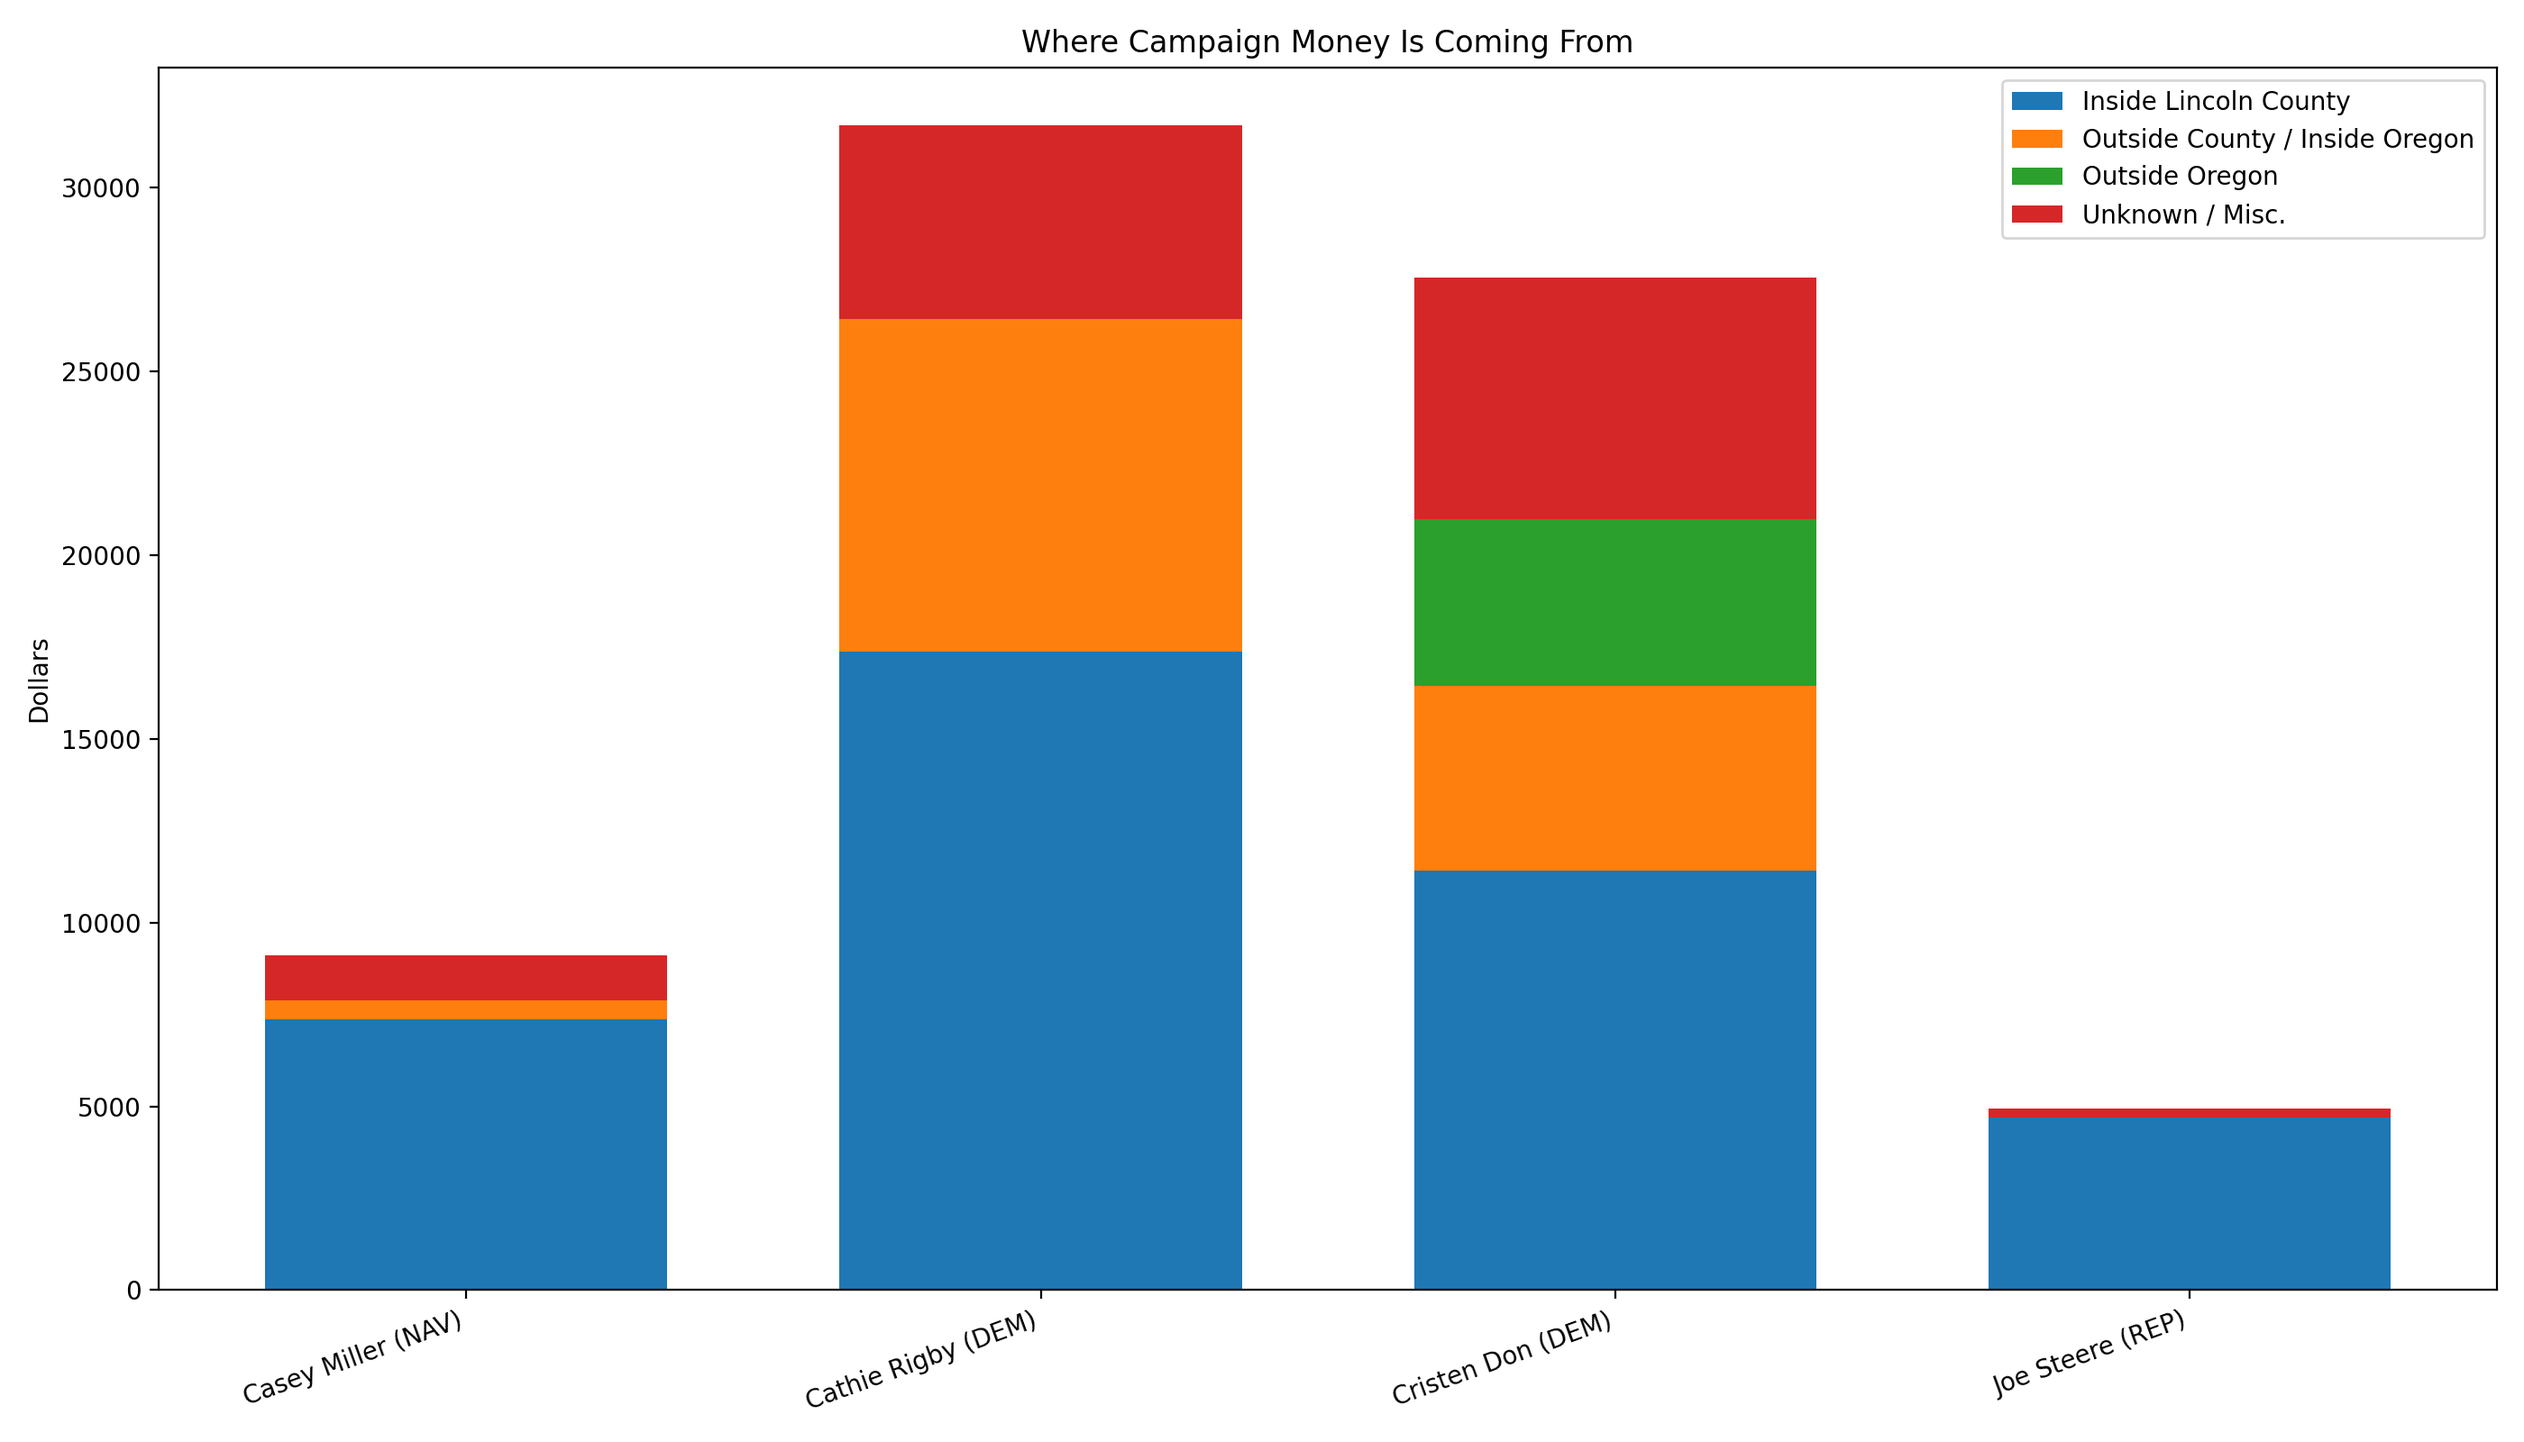
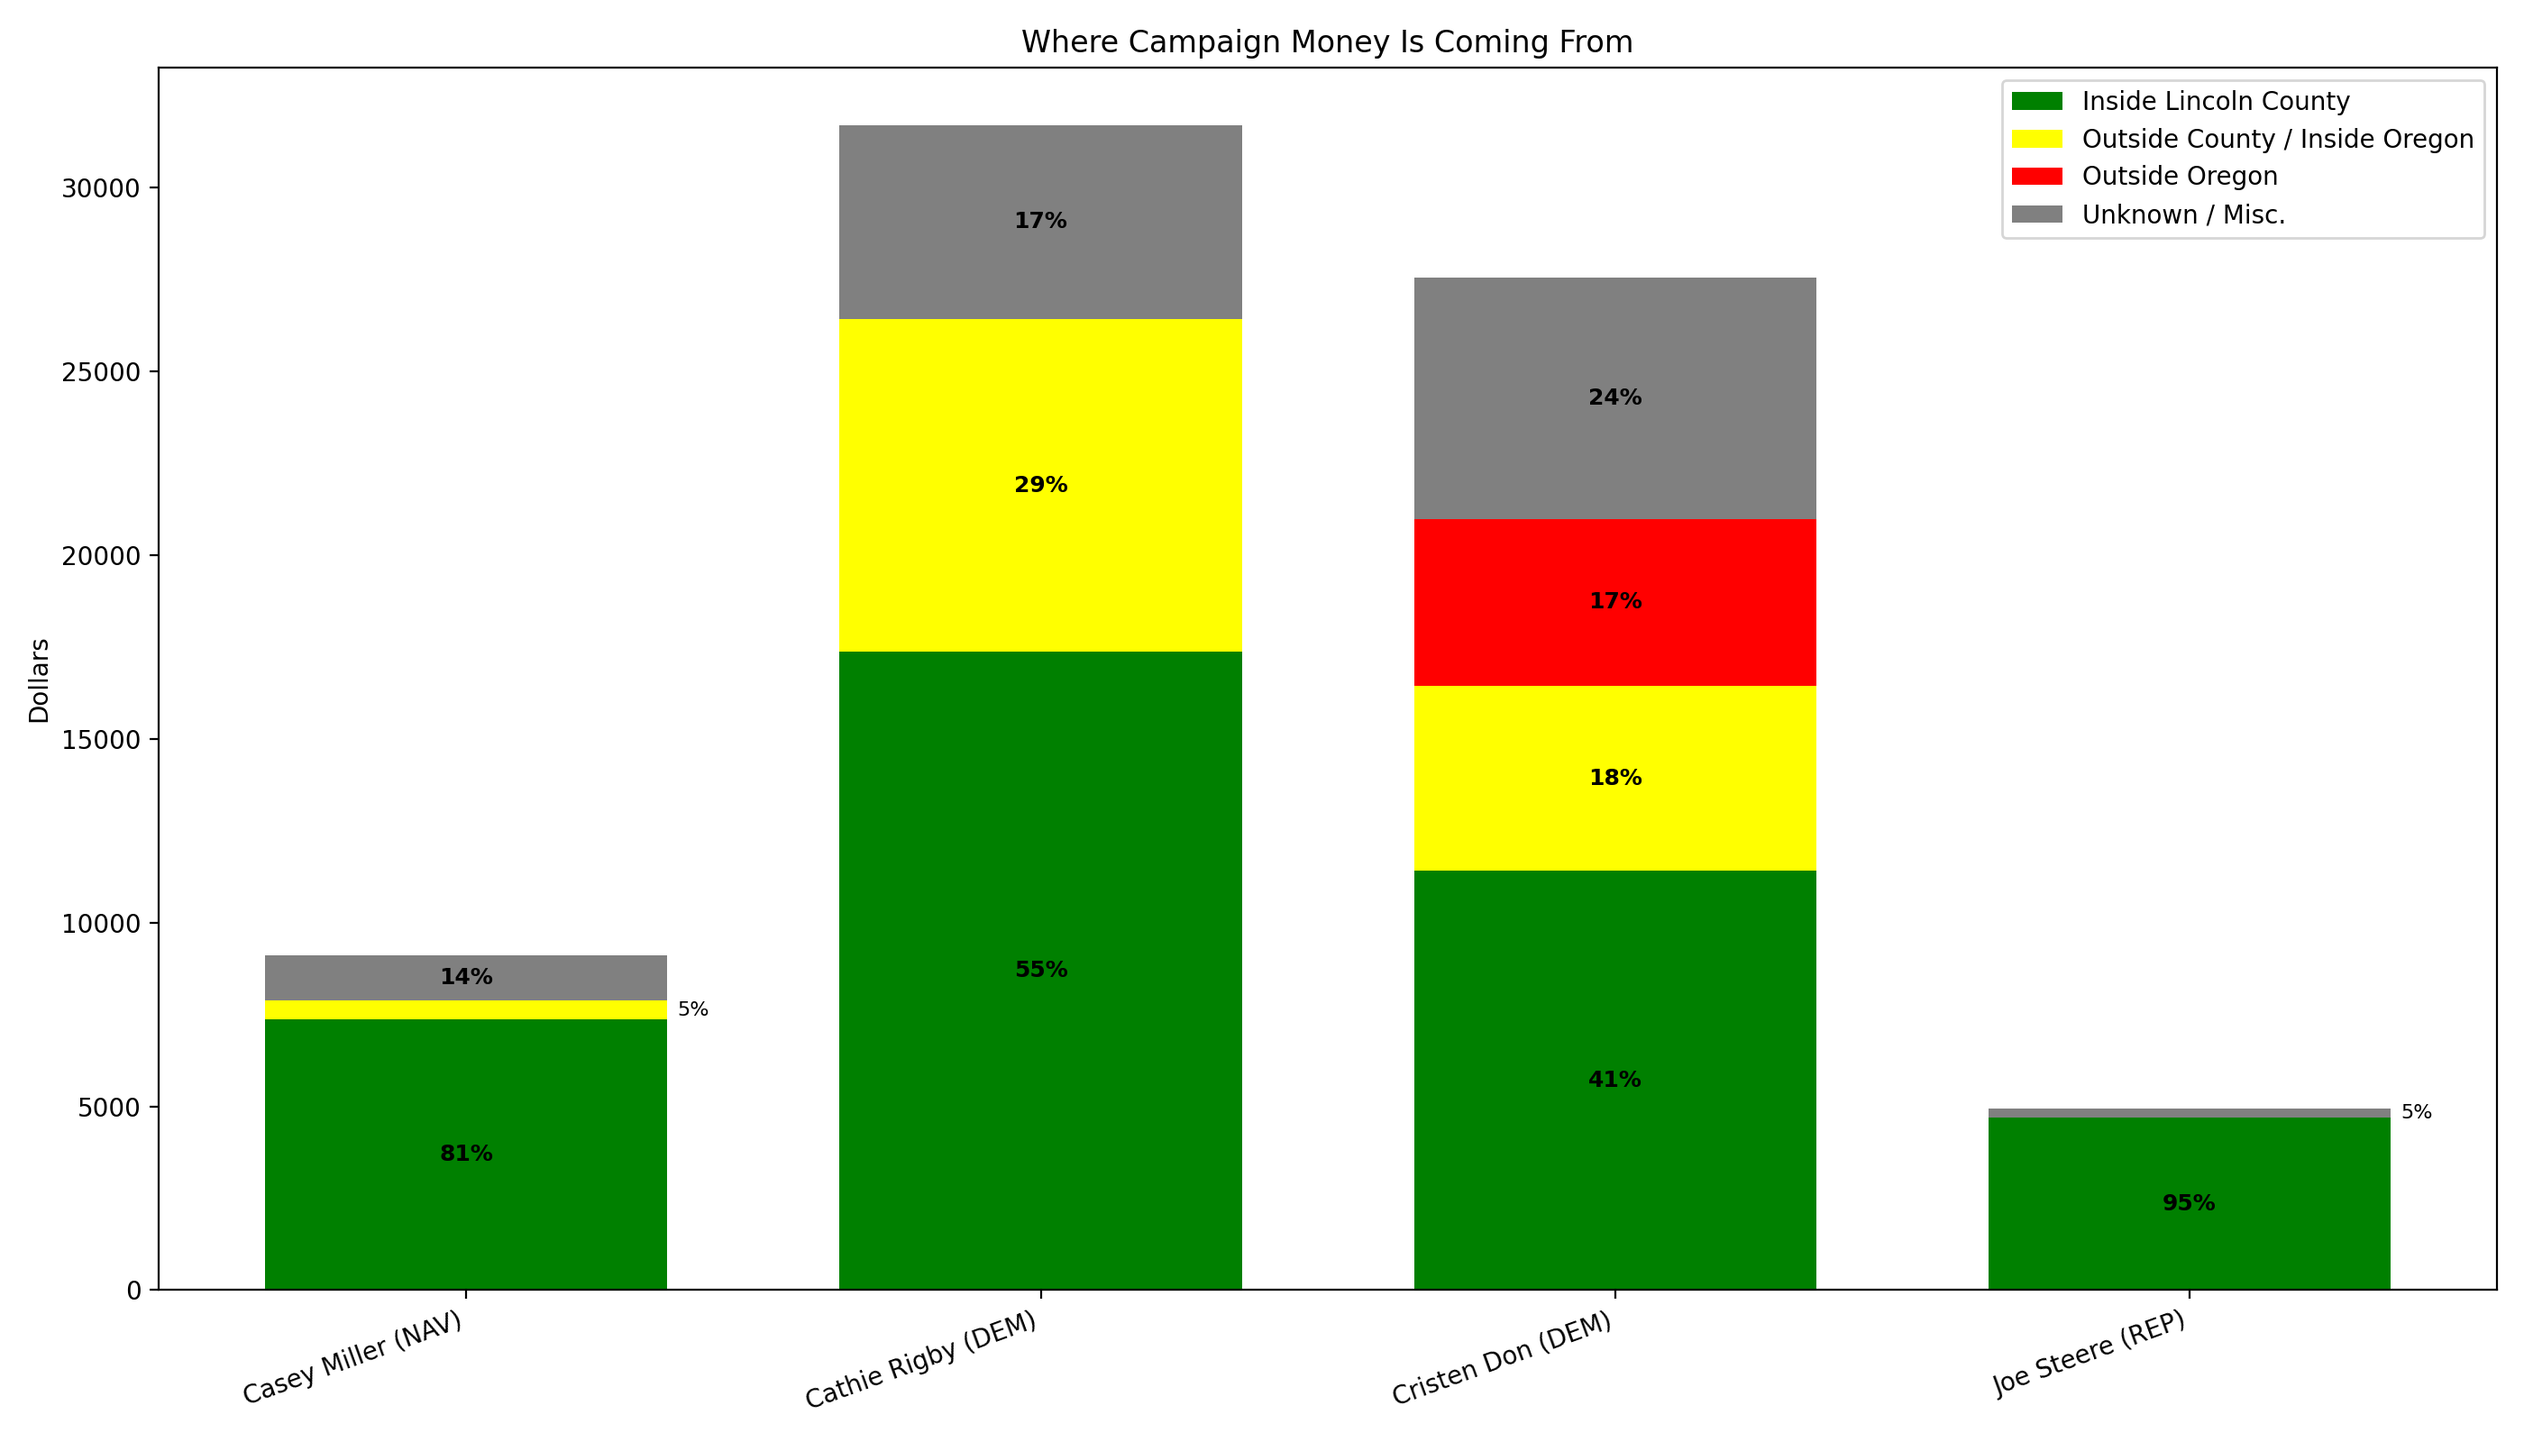
Add percentages

diff --git a/campaign_charts.py b/campaign_charts.py
@@ -13,6 +13,10 @@ import numpy as np
 from campaign_config import PARTY_COLORS, PARTY_LABELS
 from campaign_models import CandidatePartySummary, CandidateSummary
 
+INSIDE_COUNTY_COLOR = "green"
+OUTSIDE_COUNTY_COLOR = "yellow"
+OUTSIDE_OREGON_COLOR = "red"
+UNKNOWN_COLOR = "gray"
 
 class CampaignChartWriter:
     def __init__(self, output_dir: Path) -> None:
@@ -33,15 +37,39 @@ class CampaignChartWriter:
         width = 0.7
 
         plt.figure(figsize=(14, 8))
-        plt.bar(x, inside_county, width, label="Inside Lincoln County")
-        plt.bar(x, outside_county, width, bottom=inside_county, label="Outside County / Inside Oregon")
-        plt.bar(x, outside_oregon, width, bottom=inside_county + outside_county, label="Outside Oregon")
+        # plt.bar(x, inside_county, width, label="Inside Lincoln County", color=INSIDE_COUNTY_COLOR)
+        # plt.bar(x, outside_county, width, bottom=inside_county, label="Outside County / Inside Oregon", color=OUTSIDE_COUNTY_COLOR)
+        # plt.bar(x, outside_oregon, width, bottom=inside_county + outside_county, label="Outside Oregon", color=OUTSIDE_OREGON_COLOR)
+        # plt.bar(
+        #     x,
+        #     not_known,
+        #     width,
+        #     bottom=inside_county + outside_county + outside_oregon,
+        #     label="Unknown / Misc.",
+        #     color=UNKNOWN_COLOR,
+        # )
+
+        ax = plt.gca()
+
+        plt.bar(x, inside_county, width, label="Inside Lincoln County", color="green")
+        plt.bar(x, outside_county, width, bottom=inside_county, label="Outside County / Inside Oregon", color="yellow")
+        plt.bar(x, outside_oregon, width, bottom=inside_county + outside_county, label="Outside Oregon", color="red")
         plt.bar(
             x,
             not_known,
             width,
             bottom=inside_county + outside_county + outside_oregon,
             label="Unknown / Misc.",
+            color="gray",
+        )
+
+        totals = inside_county + outside_county + outside_oregon + not_known
+        self._add_stacked_percent_labels(
+            ax,
+            x,
+            [inside_county, outside_county, outside_oregon, not_known],
+            totals,
+            width,
         )
 
         plt.xticks(x, candidates, rotation=20, ha="right")
@@ -58,14 +86,15 @@ class CampaignChartWriter:
         not_known_pct = np.array([float(self._pct_value(s.not_known, s.total)) for s in summaries])
 
         plt.figure(figsize=(14, 8))
-        plt.bar(x, inside_county_pct, width, label="Inside Lincoln County")
-        plt.bar(x, outside_county_pct, width, bottom=inside_county_pct, label="Outside County / Inside Oregon")
+        plt.bar(x, inside_county_pct, width, label="Inside Lincoln County", color=INSIDE_COUNTY_COLOR)
+        plt.bar(x, outside_county_pct, width, bottom=inside_county_pct, label="Outside County / Inside Oregon", color=OUTSIDE_COUNTY_COLOR)
         plt.bar(
             x,
             outside_oregon_pct,
             width,
             bottom=inside_county_pct + outside_county_pct,
             label="Outside Oregon",
+            color=OUTSIDE_OREGON_COLOR,
         )
         plt.bar(
             x,
@@ -73,6 +102,7 @@ class CampaignChartWriter:
             width,
             bottom=inside_county_pct + outside_county_pct + outside_oregon_pct,
             label="Unknown / Misc.",
+            color=UNKNOWN_COLOR,
         )
 
         plt.xticks(x, candidates, rotation=20, ha="right")
@@ -100,11 +130,28 @@ class CampaignChartWriter:
         width = 0.7
 
         plt.figure(figsize=(14, 8))
+        # plt.bar(x, dem, width, label=PARTY_LABELS["DEM"], color=PARTY_COLORS["DEM"])
+        # plt.bar(x, rep, width, bottom=dem, label=PARTY_LABELS["REP"], color=PARTY_COLORS["REP"])
+        # plt.bar(x, ind, width, bottom=dem + rep, label=PARTY_LABELS["IND"], color=PARTY_COLORS["IND"])
+        # plt.bar(x, nav, width, bottom=dem + rep + ind, label=PARTY_LABELS["NAV"], color=PARTY_COLORS["NAV"])
+        # plt.bar(x, unk, width, bottom=dem + rep + ind + nav, label=PARTY_LABELS["UNK"], color=PARTY_COLORS["UNK"])
+
+        ax = plt.gca()
+
         plt.bar(x, dem, width, label=PARTY_LABELS["DEM"], color=PARTY_COLORS["DEM"])
         plt.bar(x, rep, width, bottom=dem, label=PARTY_LABELS["REP"], color=PARTY_COLORS["REP"])
         plt.bar(x, ind, width, bottom=dem + rep, label=PARTY_LABELS["IND"], color=PARTY_COLORS["IND"])
         plt.bar(x, nav, width, bottom=dem + rep + ind, label=PARTY_LABELS["NAV"], color=PARTY_COLORS["NAV"])
         plt.bar(x, unk, width, bottom=dem + rep + ind + nav, label=PARTY_LABELS["UNK"], color=PARTY_COLORS["UNK"])
+
+        totals = dem + rep + ind + nav + unk
+        self._add_stacked_percent_labels(
+            ax,
+            x,
+            [dem, rep, ind, nav, unk],
+            totals,
+            width,
+        )
 
         plt.xticks(x, candidates, rotation=20, ha="right")
         plt.ylabel("Dollars")
@@ -166,3 +213,50 @@ class CampaignChartWriter:
             Decimal("0.1"),
             rounding=ROUND_HALF_UP,
         )
+
+    def _add_stacked_percent_labels(
+        self,
+        ax,
+        x: np.ndarray,
+        series: Sequence[np.ndarray],
+        totals: np.ndarray,
+        width: float,
+        inside_threshold: float = 8.0,
+    ) -> None:
+        cumulative = np.zeros_like(totals, dtype=float)
+
+        for values in series:
+            percents = self._safe_percent_array(values, totals)
+
+            for i, (value, pct, bottom) in enumerate(zip(values, percents, cumulative)):
+                if value <= 0 or totals[i] <= 0:
+                    continue
+
+                label = f"{pct:.0f}%"
+                y = bottom + (value / 2.0)
+
+                if pct >= inside_threshold:
+                    ax.text(
+                        x[i],
+                        y,
+                        label,
+                        ha="center",
+                        va="center",
+                        fontsize=9,
+                        color="black",
+                        # color="white",
+                        fontweight="bold",
+                    )
+                else:
+                    ax.annotate(
+                        label,
+                        xy=(x[i] + width / 2, y),
+                        xytext=(4, 0),
+                        textcoords="offset points",
+                        ha="left",
+                        va="center",
+                        fontsize=8,
+                        color="black",
+                    )
+
+            cumulative += values
